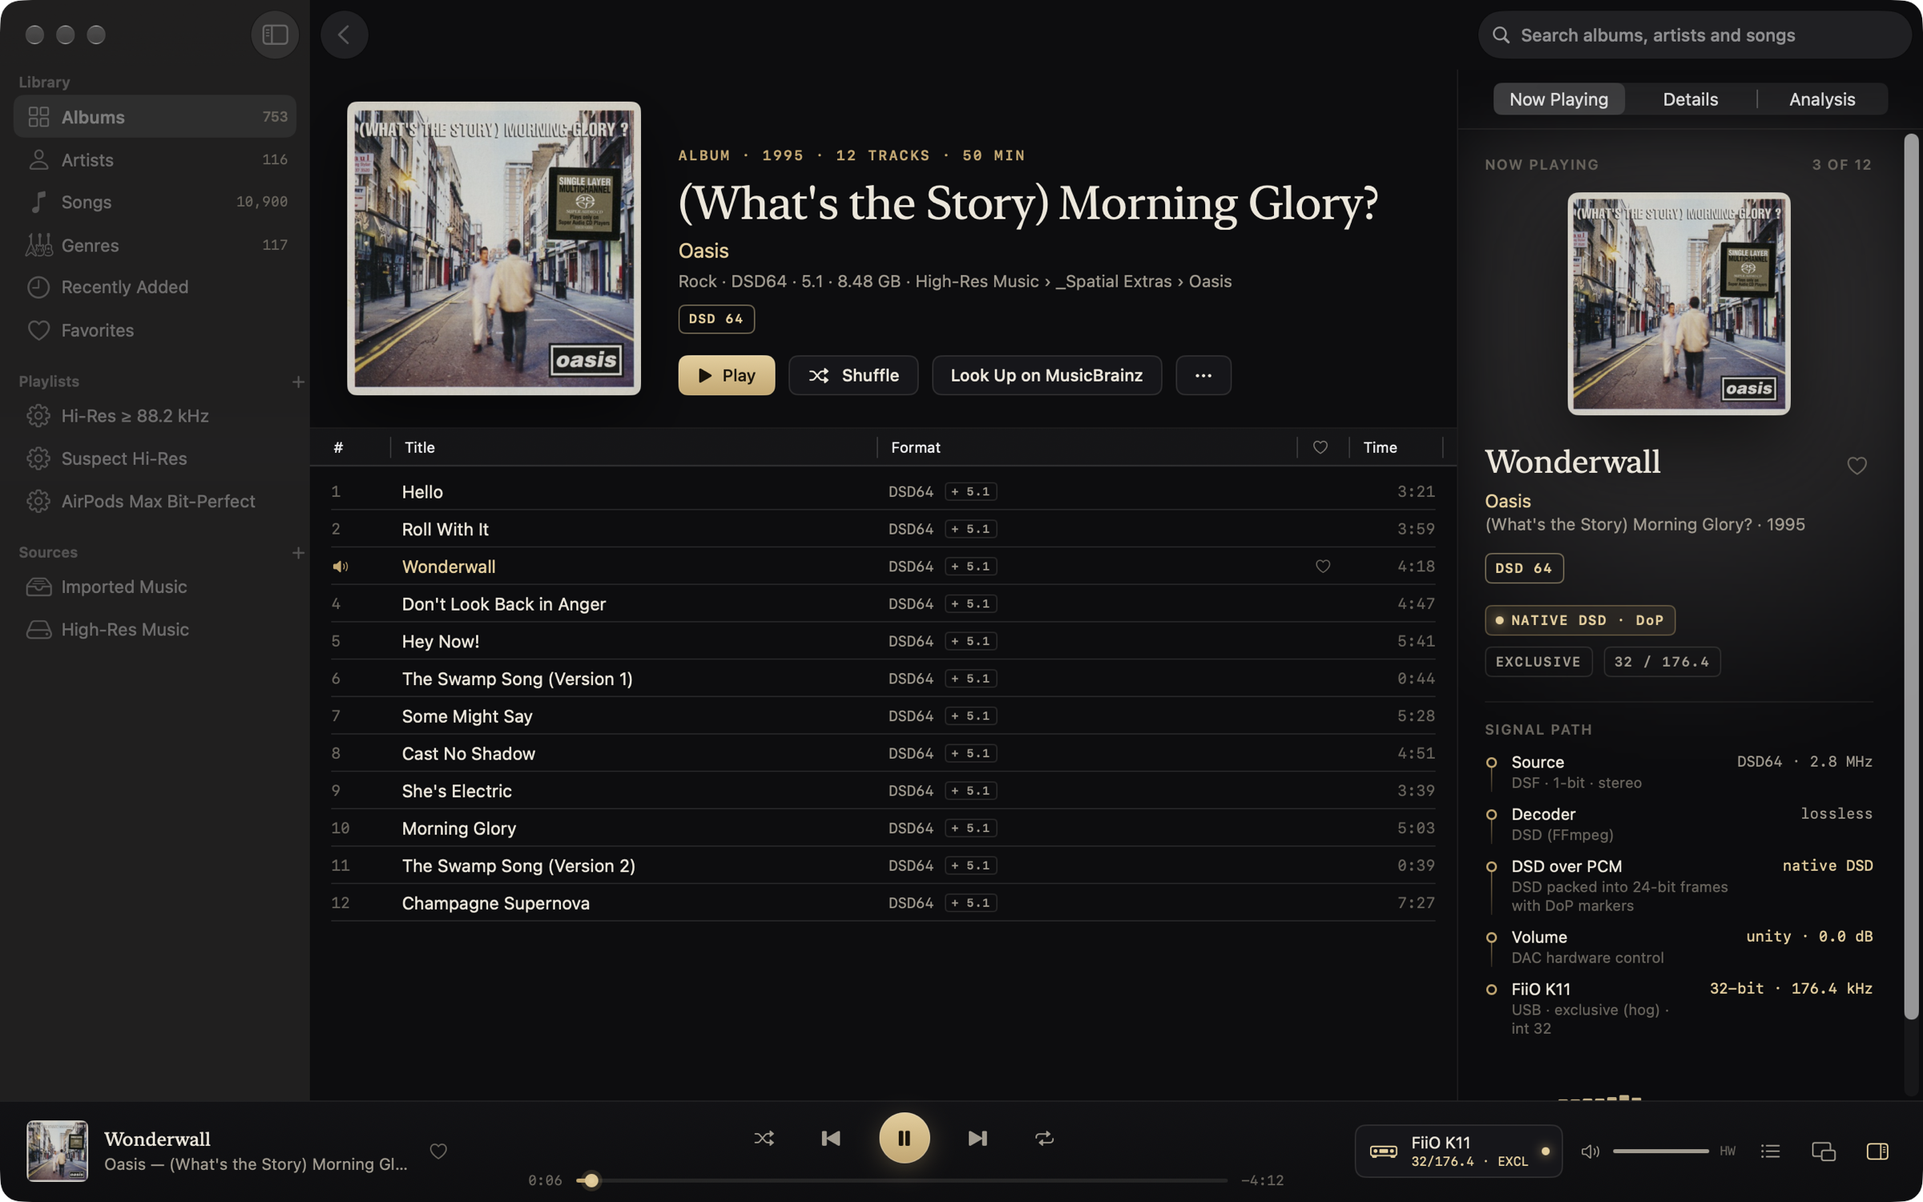
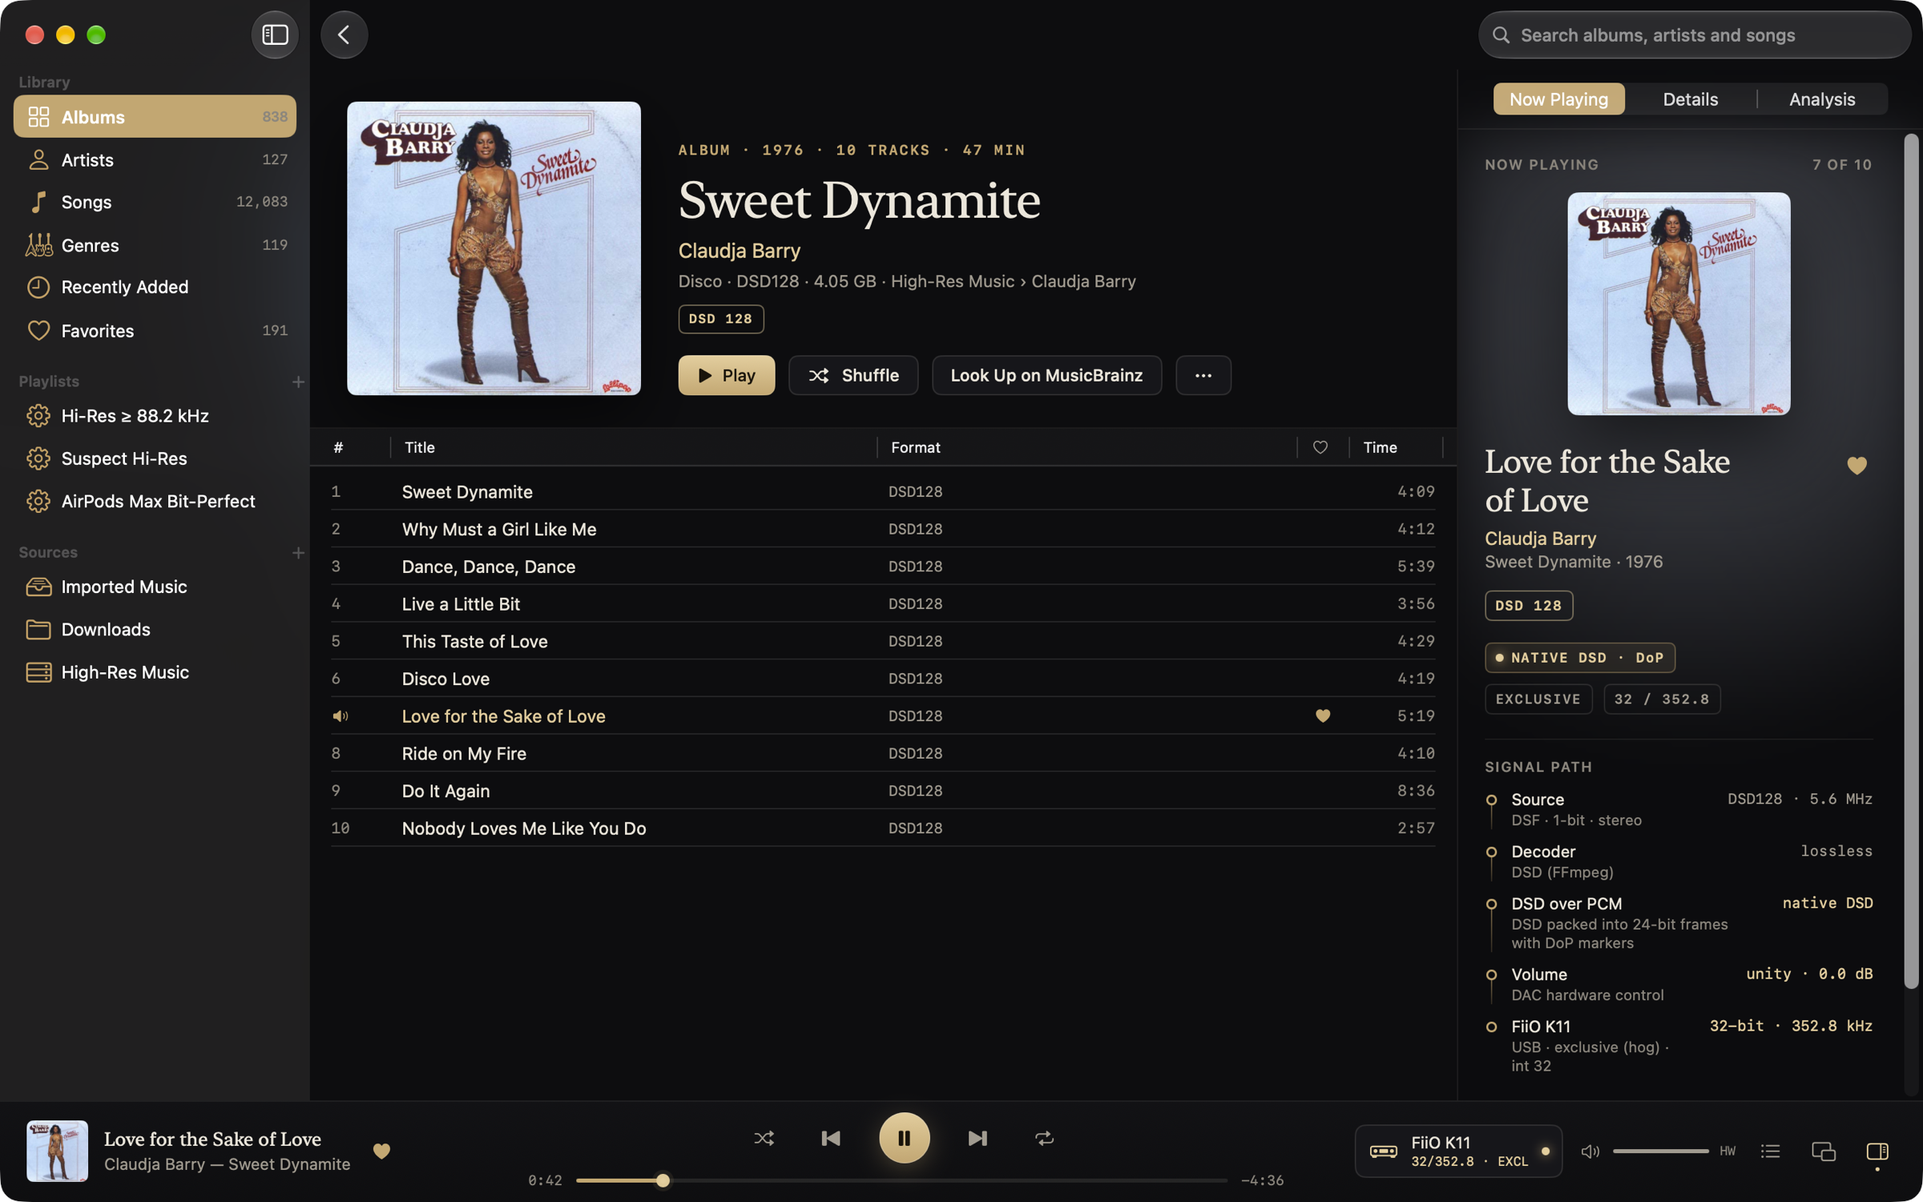
FiiO K11 screenshots retaken; key art, site images, social previews and tour GIF rebuilt
- bit-perfect-fiio-24-96: Lazar Berman's Liszt, FLAC 24/96, BIT-PERFECT and exclusive at 32/96
  (renamed from bit-perfect-fiio-24-192; references updated)
- dsd-native-dop: Claudja Barry, Love for the Sake of Love, DSD128 native over DoP at 352.8 kHz
- Key art: new chips and insets; drops the stale SACD ISO line; footer names vespertineapp.com
- Site: images rebuilt by scripts/make-site-images.sh, alt text and captions describe the new shots
- tour.gif re-rendered (800x500, 10 fps); the 4 fps tour-small.gif is gone

diff --git a/scripts/brand/keyart/main.swift b/scripts/brand/keyart/main.swift
@@ -15,23 +15,23 @@ struct Feature {
 enum Chip { case brass, copper, plain }
 
 let features = [
-    Feature(id: "bit-perfect", shot: "bit-perfect-fiio-24-192",
+    Feature(id: "bit-perfect", shot: "bit-perfect-fiio-24-96",
             headline: "Every sample, untouched.",
             sub: "Vespertine switches your DAC to the file’s rate and shows the signal path. Bit-perfect conditions and tests are in the source.",
-            chips: [("● BIT-PERFECT", .brass), ("EXCLUSIVE", .plain), ("24-BIT · 192 kHz", .plain)], focus: CGRect(x: 1826, y: 826, width: 564, height: 590)),
+            chips: [("● BIT-PERFECT", .brass), ("EXCLUSIVE", .plain), ("24-BIT · 96 kHz", .plain)], focus: CGRect(x: 1826, y: 985, width: 564, height: 400)),
     Feature(id: "stereo-and-surround", shot: "stereo-and-surround-versions",
             headline: "Stereo and surround in one library.",
-            sub: "Extracted SACD tracks list each song once, in stereo or 5.1. Surround renders as Spatial Audio on AirPods. SACD ISO is not supported yet.",
+            sub: "Extracted SACD tracks list each song once, in stereo or 5.1. Surround renders as Spatial Audio on AirPods.",
             chips: [("DSD64 · 5.1", .plain), ("+ STEREO", .plain), ("○ SPATIAL · HEAD TRACKED", .copper)], focus: CGRect(x: 370, y: 575, width: 1100, height: 390)),
     Feature(id: "spatial-audio", shot: "spatial-audio-airpods-max",
             headline: "Your 5.1 albums, all around you.",
             sub: "Surround albums play as head-tracked Spatial Audio on AirPods, each channel placed where it belongs.",
-            chips: [("5.1 · 6 CHANNELS", .plain), ("○ SPATIAL · HEAD TRACKED", .copper), ("32 / 48", .plain)], focus: CGRect(x: 1826, y: 284, width: 564, height: 622),
+            chips: [("5.1 · 6 CHANNELS", .plain), ("○ SPATIAL · HEAD TRACKED", .copper), ("32 / 48", .plain)], focus: CGRect(x: 1826, y: 255, width: 564, height: 650),
             trademarks: "AirPods is a trademark of Apple Inc. Vespertine is not affiliated with Apple."),
     Feature(id: "native-dsd", shot: "dsd-native-dop",
             headline: "Native DSD, not a conversion.",
-            sub: "DSD64 over DoP, checked on a FiiO K11. DSD64–512 files decode; native output depends on the DAC and carrier rate.",
-            chips: [("● NATIVE DSD · DoP", .brass), ("DSD64 · 2.8 MHz", .plain), ("32 / 176.4", .plain)], focus: CGRect(x: 1826, y: 600, width: 564, height: 560)),
+            sub: "DSD128 over DoP, checked on a FiiO K11. DSD64–512 files decode; native output depends on the DAC and carrier rate.",
+            chips: [("● NATIVE DSD · DoP", .brass), ("DSD128 · 5.6 MHz", .plain), ("32 / 352.8", .plain)], focus: CGRect(x: 1826, y: 800, width: 564, height: 550)),
     Feature(id: "fake-hi-res", shot: "fake-hi-res-detection",
             headline: "Know when hi-res isn’t.",
             sub: "Spectral analysis flags upsampled, padded and lossy-sourced files, with the measurements to back it up.",
@@ -137,7 +137,7 @@ func render(_ f: Feature, W: Int, H: Int, name: String) {
 
     // Footer.
     let ff = Brand.mono(13.5 * u, weight: 500)
-    fill(Brand.textPath("FREE & OPEN SOURCE · MACOS 14.4+ · SZEREMETA1.GITHUB.IO/VESPERTINE", font: ff, tracking: 0.12).path, Brand.text3,
+    fill(Brand.textPath("FREE & OPEN SOURCE · MACOS 14.4+ · VESPERTINEAPP.COM", font: ff, tracking: 0.12).path, Brand.text3,
          at: CGPoint(x: margin, y: margin * 0.8))
     if let tm = f.trademarks {
         let tf = Brand.sans(11.5 * u)

diff --git a/site/index.html b/site/index.html
@@ -21,12 +21,12 @@
 <meta property="og:image:type" content="image/png">
 <meta property="og:image:width" content="1200">
 <meta property="og:image:height" content="630">
-<meta property="og:image:alt" content="Vespertine's Now Playing panel: Regimental Sgt. Zippo by Elton John at 24-bit / 192 kHz, marked bit-perfect and exclusive, with its signal path.">
+<meta property="og:image:alt" content="Vespertine's Now Playing panel: Lazar Berman's Liszt at 24-bit / 96 kHz on a FiiO K11, marked bit-perfect and exclusive, with its signal path.">
 <meta name="twitter:card" content="summary_large_image">
 <meta name="twitter:title" content="Vespertine: surround and hi-res music for Mac">
 <meta name="twitter:description" content="Free, open-source Mac player for surround and hi-res collections: extracted SACD 5.1, DTS CDs, DTS-HD MA, TrueHD and DD+ Atmos files, Spatial Audio on AirPods, and a signal path you can inspect.">
 <meta name="twitter:image" content="https://vespertineapp.com/assets/og-wide.png">
-<meta name="twitter:image:alt" content="Vespertine's Now Playing panel: Regimental Sgt. Zippo by Elton John at 24-bit / 192 kHz, marked bit-perfect and exclusive, with its signal path.">
+<meta name="twitter:image:alt" content="Vespertine's Now Playing panel: Lazar Berman's Liszt at 24-bit / 96 kHz on a FiiO K11, marked bit-perfect and exclusive, with its signal path.">
 <script type="application/ld+json">
 {
   "@context": "https://schema.org",
@@ -85,7 +85,7 @@
     </div>
     <div class="hero-shot">
       <img src="assets/spatial-audio-airpods-max.jpg" alt="A 5.1 album playing as head-tracked Spatial Audio on AirPods Max, with the signal path and a meter for each channel" width="2000" height="1250">
-      <p class="caption">Extracted SACD 5.1 tracks as head-tracked Spatial Audio on AirPods Max. The signal path names the rendering and shows a meter for each channel.</p>
+      <p class="caption">A 24/88.2 5.1 album as head-tracked Spatial Audio on AirPods Max. The signal path names the rendering and shows a meter for each channel.</p>
     </div>
     <div class="badges" aria-label="Signal path states">
       <span class="badge brass">Bit-perfect</span>
@@ -171,7 +171,7 @@
             <li>Hands your DAC back at the rate and depth it had before, when Vespertine quits.</li>
           </ul>
         </div>
-        <img class="shot" src="assets/dsd-native-dop-detail.jpg" alt="Oasis's (What's the Story) Morning Glory? from its SACD as DSD64 over DoP to a FiiO K11" loading="lazy" width="1300" height="1100">
+        <img class="shot" src="assets/dsd-native-dop-detail.jpg" alt="Claudja Barry's Love for the Sake of Love as DSD128 over DoP to a FiiO K11, at 352.8 kHz" loading="lazy" width="1300" height="1100">
       </div>
 
       <div class="feature">

diff --git a/site/press.html b/site/press.html
@@ -124,8 +124,8 @@
       <p>The real app on the developer's own library, 2400×1500. Album art belongs to its owners.</p>
       <div class="grid grid-3">
         <figure>
-          <a href="https://raw.githubusercontent.com/szeremeta1/Vespertine/main/docs/screenshots/bit-perfect-fiio-24-192.png"><img src="assets/press/shot-bit-perfect-fiio-24-192.jpg" alt="24-bit / 192 kHz, bit-perfect on a FiiO K11" loading="lazy" width="720" height="450"></a>
-          <figcaption>24-bit / 192 kHz, bit-perfect on a FiiO K11: Elton John, Regimental Sgt. Zippo</figcaption>
+          <a href="https://raw.githubusercontent.com/szeremeta1/Vespertine/main/docs/screenshots/bit-perfect-fiio-24-96.png"><img src="assets/press/shot-bit-perfect-fiio-24-96.jpg" alt="24-bit / 96 kHz, bit-perfect on a FiiO K11" loading="lazy" width="720" height="450"></a>
+          <figcaption>24-bit / 96 kHz, bit-perfect on a FiiO K11: Lazar Berman, Liszt’s Les jeux d’eaux à la Villa d’Este</figcaption>
         </figure>
         <figure>
           <a href="https://raw.githubusercontent.com/szeremeta1/Vespertine/main/docs/screenshots/multichannel-albums.png"><img src="assets/press/shot-multichannel-albums.jpg" alt="Albums filtered to multichannel" loading="lazy" width="720" height="450"></a>
@@ -144,8 +144,8 @@
           <figcaption>A 24/192 “remaster” that stops at 16 kHz (a deliberate fake: the trailer's own music, encoded to MP3 and upsampled, under a made-up band name)</figcaption>
         </figure>
         <figure>
-          <a href="https://raw.githubusercontent.com/szeremeta1/Vespertine/main/docs/screenshots/dsd-native-dop.png"><img src="assets/press/shot-dsd-native-dop.jpg" alt="DSD64 over DoP" loading="lazy" width="720" height="450"></a>
-          <figcaption>DSD64 over DoP: Oasis, (What's the Story) Morning Glory? from its SACD</figcaption>
+          <a href="https://raw.githubusercontent.com/szeremeta1/Vespertine/main/docs/screenshots/dsd-native-dop.png"><img src="assets/press/shot-dsd-native-dop.jpg" alt="DSD128 over DoP" loading="lazy" width="720" height="450"></a>
+          <figcaption>DSD128 over DoP at 352.8 kHz on a FiiO K11: Claudja Barry, Love for the Sake of Love</figcaption>
         </figure>
         <figure>
           <a href="https://raw.githubusercontent.com/szeremeta1/Vespertine/main/docs/screenshots/genres.png"><img src="assets/press/shot-genres.jpg" alt="Genres" loading="lazy" width="720" height="450"></a>

diff --git a/site/privacy.html b/site/privacy.html
@@ -21,12 +21,12 @@
 <meta property="og:image:type" content="image/png">
 <meta property="og:image:width" content="1200">
 <meta property="og:image:height" content="630">
-<meta property="og:image:alt" content="Vespertine's Now Playing panel: Regimental Sgt. Zippo by Elton John at 24-bit / 192 kHz, marked bit-perfect and exclusive, with its signal path.">
+<meta property="og:image:alt" content="Vespertine's Now Playing panel: Lazar Berman's Liszt at 24-bit / 96 kHz on a FiiO K11, marked bit-perfect and exclusive, with its signal path.">
 <meta name="twitter:card" content="summary_large_image">
 <meta name="twitter:title" content="Privacy: Vespertine">
 <meta name="twitter:description" content="Vespertine collects nothing. What the app and this website connect to, and why.">
 <meta name="twitter:image" content="https://vespertineapp.com/assets/og-wide.png">
-<meta name="twitter:image:alt" content="Vespertine's Now Playing panel: Regimental Sgt. Zippo by Elton John at 24-bit / 192 kHz, marked bit-perfect and exclusive, with its signal path.">
+<meta name="twitter:image:alt" content="Vespertine's Now Playing panel: Lazar Berman's Liszt at 24-bit / 96 kHz on a FiiO K11, marked bit-perfect and exclusive, with its signal path.">
 <link rel="stylesheet" href="style.css?v=dev">
 </head>
 <body>

diff --git a/site/terms.html b/site/terms.html
@@ -21,12 +21,12 @@
 <meta property="og:image:type" content="image/png">
 <meta property="og:image:width" content="1200">
 <meta property="og:image:height" content="630">
-<meta property="og:image:alt" content="Vespertine's Now Playing panel: Regimental Sgt. Zippo by Elton John at 24-bit / 192 kHz, marked bit-perfect and exclusive, with its signal path.">
+<meta property="og:image:alt" content="Vespertine's Now Playing panel: Lazar Berman's Liszt at 24-bit / 96 kHz on a FiiO K11, marked bit-perfect and exclusive, with its signal path.">
 <meta name="twitter:card" content="summary_large_image">
 <meta name="twitter:title" content="Terms: Vespertine">
 <meta name="twitter:description" content="Vespertine is free software under the GNU General Public License 3.0.">
 <meta name="twitter:image" content="https://vespertineapp.com/assets/og-wide.png">
-<meta name="twitter:image:alt" content="Vespertine's Now Playing panel: Regimental Sgt. Zippo by Elton John at 24-bit / 192 kHz, marked bit-perfect and exclusive, with its signal path.">
+<meta name="twitter:image:alt" content="Vespertine's Now Playing panel: Lazar Berman's Liszt at 24-bit / 96 kHz on a FiiO K11, marked bit-perfect and exclusive, with its signal path.">
 <link rel="stylesheet" href="style.css?v=dev">
 </head>
 <body>

diff --git a/docs/design/social-preview.html b/docs/design/social-preview.html
@@ -40,7 +40,7 @@
   .foot b { color: var(--text2); font-weight: 500; }
 
   /* Right: the app window, with the signal path lifted out of it at a readable size.
-     Both are crops of docs/screenshots/bit-perfect-fiio-24-192.png (2400x1500). */
+     Both are crops of docs/screenshots/bit-perfect-fiio-24-96.png (2400x1500). */
   .window {
     position: absolute; left: 596px; top: 46px; width: 740px; height: 552px; overflow: hidden;
     border-radius: 14px 0 0 14px; box-shadow: 0 0 0 1px rgba(236,230,218,.09), 0 40px 90px rgba(0,0,0,.7);
@@ -69,8 +69,8 @@
       </div>
     </div>
     <div class="foot"><b>Open source</b> · GPL-3.0 · macOS 14.4+ · Apple silicon &amp; Intel</div>
-    <div class="window"><img src="../screenshots/bit-perfect-fiio-24-192.png" alt=""></div>
-    <div class="panel"><div class="crop"><img src="../screenshots/bit-perfect-fiio-24-192.png" alt=""></div></div>
+    <div class="window"><img src="../screenshots/bit-perfect-fiio-24-96.png" alt=""></div>
+    <div class="panel"><div class="crop"><img src="../screenshots/bit-perfect-fiio-24-96.png" alt=""></div></div>
   </div>
 </body>
 </html>

diff --git a/scripts/brand/social/main.swift b/scripts/brand/social/main.swift
@@ -18,7 +18,7 @@ func plain(_ s: String) -> String {
 let lede = plain(matches("<p class=\"lede\">(.*?)</p>")[0])
 let chips = matches("<span class=\"chip\">(.*?)</span>").map(plain)
 let foot = plain(matches("<div class=\"foot\">(.*?)</div>")[0])
-let shot = NSImage(contentsOf: Brand.repo.appendingPathComponent("docs/screenshots/bit-perfect-fiio-24-192.png"))!.cgImage(forProposedRect: nil, context: nil, hints: nil)!
+let shot = NSImage(contentsOf: Brand.repo.appendingPathComponent("docs/screenshots/bit-perfect-fiio-24-96.png"))!.cgImage(forProposedRect: nil, context: nil, hints: nil)!
 let logo = NSImage(contentsOf: Brand.repo.appendingPathComponent("docs/brand/logo.png"))!.cgImage(forProposedRect: nil, context: nil, hints: nil)!
 
 func render(wide: Bool) {

diff --git a/scripts/make-tour.swift b/scripts/make-tour.swift
@@ -34,7 +34,7 @@ let shots: [Shot] = [
          to: CGRect(x: 520, y: 150, width: 1600, height: 1000),
          caption: "Your surround library: SACD, DTS CDs and 5.1 FLAC"),
     Shot(file: "docs/screenshots/bit-perfect-fiio-24-96.png", from: full,
-         to: CGRect(x: 1290, y: 540, width: 1110, height: 693.75),
+         to: CGRect(x: 1290, y: 760, width: 1110, height: 693.75),   // the badges and the whole signal path
          caption: "BIT-PERFECT appears only when its conditions are met"),
     Shot(file: "docs/screenshots/dsd-native-dop.png", from: full,
          to: CGRect(x: 1290, y: 540, width: 1110, height: 693.75),

diff --git a/docs/press/shot-list.md b/docs/press/shot-list.md
@@ -7,8 +7,8 @@ JPEGs, the tour, the social previews) is derived from these by the scripts named
 | Scene (`docs/screenshots/`) | Track | Needs | True on screen |
 |---|---|---|---|
 | `multichannel-albums` | Albums, Multichannel chip | library | the grid shows Bob Dylan's *Blood on the Tracks* DSD64 5.1, Elton John's *Goodbye Yellow Brick Road* and Oasis's *Morning Glory* SACD among the multichannel albums |
-| `bit-perfect-fiio-24-192` (renamed `bit-perfect-fiio-24-96`) | *Les jeux d'eau à la Villa d'Este*, Lazar Berman (FLAC 24/96) | FiiO K11, exclusive mode | BIT-PERFECT badge; source 24/96, device 96 kHz native, unity volume, hog mode; TRUE 24 badge from analysis |
-| `dsd-native-dop` | *Love for the Sake of Love*, Claudja Barry (DSD128) | FiiO K11, DoP enabled for it | DSD128 source; DoP at 352.8 kHz on the device; no PCM conversion step; BIT-PERFECT shown only if the path says so |
+| `bit-perfect-fiio-24-96` | *Les jeux d'eau à la Villa d'Este*, Lazar Berman (FLAC 24/96) | FiiO K11, exclusive mode | BIT-PERFECT, EXCLUSIVE, 32 / 96; 96 kHz native, unity volume, hog mode; TRUE 24 from analysis |
+| `dsd-native-dop` | *Love for the Sake of Love*, Claudja Barry (DSD128) | FiiO K11, DoP enabled for it | NATIVE DSD · DoP, 32 / 352.8; DSD128 · 5.6 MHz source; DSD over PCM marked native DSD; no conversion step |
 | `stereo-and-surround-versions` | *Don't Look Back in Anger*, Oasis, *Morning Glory* SACD: DSD64 stereo and 5.1 | AirPods Max | each song listed once, DSD64 · 5.1 + STEREO; the 5.1 version plays as head-tracked Spatial Audio; DSD → PCM 352.8 → 48 kHz shown as converted |
 | `spatial-audio-airpods-max` | *Candle in the Wind*, Elton John (24/88.2 5.1) | AirPods Max, head tracking on | Spatial Audio active, 6 channels in, head tracking shown; no BIT-PERFECT badge (it's rendered, not bit-perfect) |
 | `fake-hi-res-detection` | *Velvet Hour*, The Lantern Lounge Orchestra (the deliberate fake: MP3 192 kb/s → 24/192) | none | LOSSY ORIGIN?; claimed 24/192; steep cutoff ~16 kHz (measured on dormhub with `vespertine-probe` on a fresh fake from `score.py`, 76% of frames, 30 dB drop) |
@@ -23,13 +23,14 @@ JPEGs, the tour, the social previews) is derived from these by the scripts named
   only) on the same tracks as the stills, re-measure the overlay positions in `Scenes.swift` for each new recording,
   then `render.sh`, the Final Cut Pro edit and `deliver.sh`. Needs the FiiO K11 and AirPods Max for the bit-perfect,
   DSD and Spatial scenes.
-- **Tour GIFs** (`docs/screenshots/tour*.gif`): `scripts/make-tour.swift` from the stills.
+- **Tour GIF** (`docs/screenshots/tour.gif`): `scripts/make-tour-gif.sh` from the stills.
 
 ## Derived
 
 - Press key art (`docs/press/*`): `scripts/brand/build.sh`.
 - Social previews (`site/assets/og*.png`): `scripts/make-social-preview.sh`.
-- Site JPEGs (`site/assets/*.jpg`, `site/assets/press/shot-*.jpg`): crops of the stills.
+- Site JPEGs (`site/assets/*.jpg`, `site/assets/press/*.jpg`): `scripts/make-site-images.sh`.
+- Social previews render natively on a headless Mac with `VESPERTINE_SOCIAL_RENDERER=native`.
 
 ## Checks before a shot ships
 

diff --git a/docs/FEATURES.md b/docs/FEATURES.md
@@ -28,7 +28,7 @@ The signal path lists decoding, device rate and physical format, gain, resamplin
 
 Shared-mode checks poll about once a second. Short sounds and activity Core Audio does not report can escape detection. Processing inside a DAC or headphones is outside what macOS reports. A signal-path badge is not an independent digital loopback measurement.
 
-![24-bit / 192 kHz FLAC on a FiiO K11, with its signal path](screenshots/bit-perfect-fiio-24-192.png)
+![24-bit / 96 kHz FLAC, bit-perfect on a FiiO K11, with its signal path](screenshots/bit-perfect-fiio-24-96.png)
 
 Vespertine switches the DAC to each track's native rate. PCM playback has been tested up to 384 kHz on a FiiO K11. If the DAC cannot run the source rate, Apple's mastering-quality resampler converts it. The planner prefers the same rate family, then a higher rate, then an integer divisor. Per-device settings can match the source, use the device maximum, or force a rate.
 
@@ -42,7 +42,7 @@ Vespertine waits for your selected device if it is missing, for up to a minute a
 
 DSF and DSDIFF files decode from DSD64 to DSD512. On a DAC marked DoP-capable, DSD is packed into DoP frames when the DAC supports the carrier rate. Otherwise it becomes high-rate PCM, with the conversion shown in the signal path. DoP is off until enabled for a device because a non-DoP DAC would play the carrier as noise. DoP has only been confirmed on a FiiO K11; carrier rates above 384 kHz have not been tested on hardware. DSD256/512 file support does not establish native playback at those rates on a real DAC.
 
-![An extracted SACD track playing as DSD64 over DoP on a FiiO K11](screenshots/dsd-native-dop.png)
+![A DSD128 file playing natively over DoP on a FiiO K11](screenshots/dsd-native-dop.png)
 
 AirPods Max on USB-C are recognized as a lossless 24-bit / 48 kHz device. Unprocessed 48 kHz tracks meet the app's bit-perfect conditions; other rates are converted to 48 kHz. This rests on Apple's description of the cable path and Core Audio readback, since AirPods have no digital output for a loopback test. Over Bluetooth the signal path reports AAC. AirPods Max 2 detection is implemented by name but untested.
 
